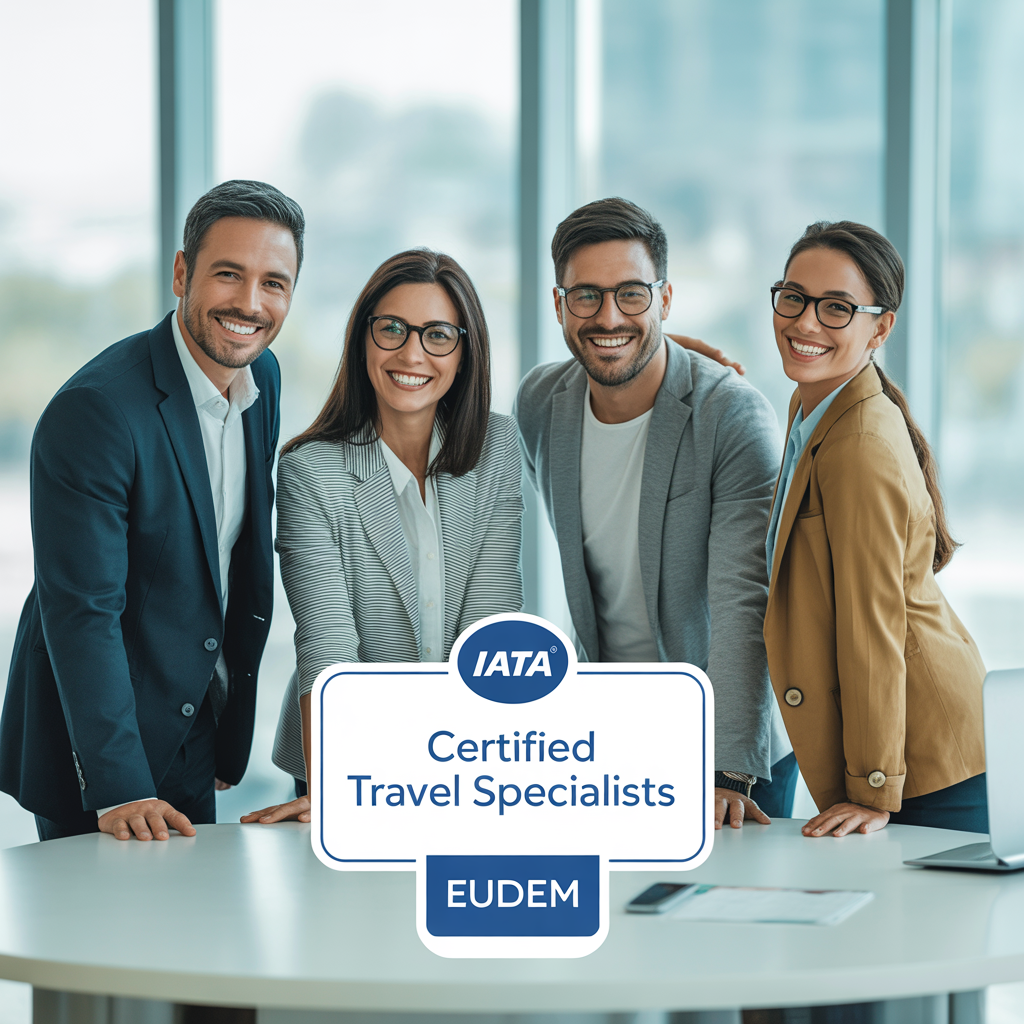
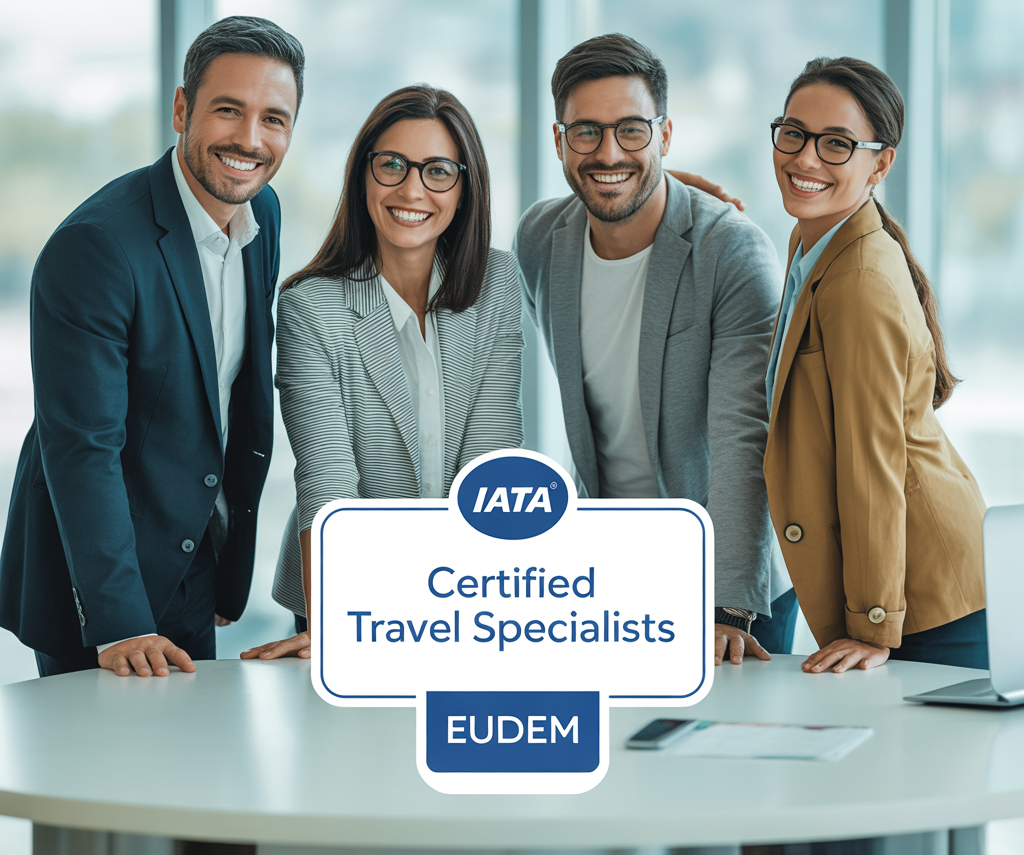
Home and Contact us page update

diff --git a/solutions/travel.html b/solutions/travel.html
@@ -276,26 +276,29 @@
       <!-- IMPLEMENTATION -->
       <section class="bg-white py-12 sm:py-16 md:py-20 lg:py-24">
         <div class="max-w-7xl mx-auto px-4 sm:px-6 lg:px-8">
-          <div class="grid grid-cols-1 lg:grid-cols-3 gap-4 md:gap-6 lg:gap-8">
-            <div class="uv-card uv-glow p-6 fade-in opacity-0">
-              <span class="material-symbols-outlined text-[var(--brand-bg)] text-xl md:text-2xl lg:text-3xl absolute right-4 top-4" style="font-size: 2rem;">globe_book</span>
-              <h4 class="text-lg md:text-xl font-semibold text-[var(--brand-bg)]">Discovery &amp; Planning</h4>
-              <p class="mt-2 text-[var(--brand-accent)]">Define requirements and a tailored implementation roadmap.</p>
-            </div>
-            <div class="uv-card uv-glow p-6 fade-in opacity-0">
-              <span class="material-symbols-outlined text-[var(--brand-bg)] text-xl md:text-2xl lg:text-3xl absolute right-4 top-4" style="font-size: 2rem;">integration_instructions</span>
-              <h4 class="text-lg md:text-xl font-semibold text-[var(--brand-bg)]">Technical Integration</h4>
-              <p class="mt-2 text-[var(--brand-accent)]">Seamless API integration, real-time points, thorough testing.</p>
-            </div>
-            <div class="uv-card uv-glow p-6 fade-in opacity-0">
-              <span class="material-symbols-outlined text-[var(--brand-bg)] text-xl md:text-2xl lg:text-3xl absolute right-4 top-4" style="font-size: 2rem;">rocket_launch</span>
-              <h4 class="text-lg md:text-xl font-semibold text-[var(--brand-bg)]">Launch &amp; Optimization</h4>
-              <p class="mt-2 text-[var(--brand-accent)]">Go-live support plus ongoing optimization &amp; analytics.</p>
+          <div class="grid grid-cols-1 md:grid-cols-12 items-center gap-y-8 md:gap-y-0 md:gap-x-10">
+            <img src="/assets/img/travel/team.png" alt="Certified Team" class="mx-auto w-full object-cover rounded-2xl shadow-lg fade-in opacity-0 md:col-span-7" />
+            <div class="md:col-span-5">
+              <div class="grid grid-cols-1 gap-4 md:gap-6 lg:gap-8">
+                <div class="uv-card uv-glow p-6 fade-in opacity-0">
+                  <span class="material-symbols-outlined text-[var(--brand-bg)] text-xl md:text-2xl lg:text-3xl absolute right-4 top-4" style="font-size: 2rem;">globe_book</span>
+                  <h4 class="text-lg md:text-xl font-semibold text-[var(--brand-bg)]">Discovery &amp; Planning</h4>
+                  <p class="mt-2 text-[var(--brand-accent)]">Define requirements and a tailored implementation roadmap.</p>
+                </div>
+                <div class="uv-card uv-glow p-6 fade-in opacity-0">
+                  <span class="material-symbols-outlined text-[var(--brand-bg)] text-xl md:text-2xl lg:text-3xl absolute right-4 top-4" style="font-size: 2rem;">integration_instructions</span>
+                  <h4 class="text-lg md:text-xl font-semibold text-[var(--brand-bg)]">Technical Integration</h4>
+                  <p class="mt-2 text-[var(--brand-accent)]">Seamless API integration, real-time points, thorough testing.</p>
+                </div>
+                <div class="uv-card uv-glow p-6 fade-in opacity-0">
+                  <span class="material-symbols-outlined text-[var(--brand-bg)] text-xl md:text-2xl lg:text-3xl absolute right-4 top-4" style="font-size: 2rem;">rocket_launch</span>
+                  <h4 class="text-lg md:text-xl font-semibold text-[var(--brand-bg)]">Launch &amp; Optimization</h4>
+                  <p class="mt-2 text-[var(--brand-accent)]">Go-live support plus ongoing optimization &amp; analytics.</p>
+                </div>
+              </div>
             </div>
           </div>
-          <img src="/assets/img/travel/team.png"
-             alt="Certified Team"
-             class="mx-auto w-full max-h-[500px] object-cover rounded-2xl shadow-lg fade-in opacity-0 mt-8 md:mt-10" />
+         
         </div>
       </section>
 

diff --git a/index.html b/index.html
@@ -31,6 +31,17 @@
     <script>
       (function () {
         function goFS(el) {
+
+          // iPhone (iOS Safari) - supports only this
+            if (el.webkitEnterFullscreen) {
+              try {
+                el.webkitEnterFullscreen();
+                return;
+              } catch (e) {
+                console.log("iOS fullscreen error:", e);
+              }
+            }
+
           if (el && el.requestFullscreen) return el.requestFullscreen();
           if (el && el.webkitRequestFullscreen) return el.webkitRequestFullscreen(); // Safari
         }

diff --git a/assets/css/tailwind.css b/assets/css/tailwind.css
@@ -57,7 +57,6 @@
     --radius-lg: 0.5rem;
     --radius-xl: 0.75rem;
     --radius-2xl: 1rem;
-    --ease-in: cubic-bezier(0.4, 0, 1, 1);
     --ease-in-out: cubic-bezier(0.4, 0, 0.2, 1);
     --blur-3xl: 64px;
     --aspect-video: 16 / 9;
